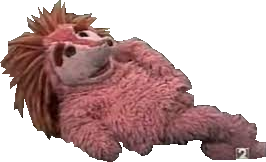
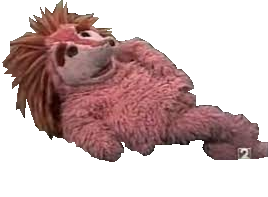
añadida barra inferior

diff --git a/tab_functions.js b/tab_functions.js
@@ -66,15 +66,61 @@ function cambiarIcono() {
 	console.log('iconillo')
 	console.log(a)
 	if (a != -1) {
-		a.href = 'https://raw.githubusercontent.com/gallegux/croack/main/espinete-icon.png'
+		a.href = 'https://raw.githubusercontent.com/gallegux/sigo/main/espinete-icon.png'
 		console.log("icono cambiado")
 	}
+}
+
+
+function crearLink(nombre, url) {
+	a = document.createElement('a')
+	a.innerHTML = nombre
+	a.href = url
+	a.target = '_blank'
+	
+	return a
+}
+
+
+function anadirCRU() {
+	opts = [ 
+		{nombre: 'Alta&nbsp;usuarios', url: 'https://cru.jccm.es/usuarios/index.php'} , 
+		{nombre: 'Buscar&nbsp;usuarios', url: 'https://cru.jccm.es/usuarios/buscar.php?estado=0'} , 
+		{nombre: 'Personal&nbsp;docente', url: 'http://educacion.jccm.es/gesid/gesid/buscarUsuario/buscarUsuario.jsf'} , 
+		{nombre: 'Registro&nbsp;de&nbsp;cambios', url: 'https://cru.jccm.es/usuarios/logs.php'} , 
+		{nombre: 'Telefonía&nbsp;IP', url: 'https://cru.jccm.es/AXL105/'} , 
+		{nombre: 'Listas&nbsp;de&nbsp;distribución', url: 'https://cru.jccm.es/usuarios/listas.php'},
+		{nombre: 'OCS', url: 'http://ocs.jclm.es/ocsreports/'}
+	]
+
+	tabla = document.createElement('table')
+	tabla.style = 'position: absolute; bottom: 0px; width: 200%; height: 35px !important; background-color: #002855;'
+	
+	fila = document.createElement('tr')
+	tabla.appendChild(fila)
+	
+	for (i = 0; i < opts.length; i++) {
+		opt = opts[i]
+		console.log(i+" "+opt.nombre)
+		celda = document.createElement('TD')
+		celda.innerHTML = '&nbsp;&nbsp;&nbsp;&nbsp;&nbsp;&nbsp;&nbsp;'
+		fila.appendChild(celda)
+		celda = document.createElement('TD')
+		enlace = crearLink(opt.nombre, opt.url)
+		celda.appendChild(enlace)
+		fila.appendChild(celda)
+	}
+	celda = document.createElement('TD')
+	celda.width = '100%'
+	fila.appendChild(celda)
+	
+	document.body.appendChild(tabla)
 }
 
 /*
 function anadirEsquina() {
 	x = document.createElement('img')
-	x.src = 'https://raw.githubusercontent.com/gallegux/croack/main/espinete_tumbado.png'
+	x.src = 'chrome-extension:///espinete_tumbado.png'
 	x.style = 'position: absolute; bottom: 0; left: 0; z-index: -10;'
 	
 	document.body.appendChild(x)
@@ -86,5 +132,9 @@ setTimeout(quitarEnlace,1000, "JavaScript")
 setInterval(refrescar, 55000, "JavaScript")
 
 cambiarIcono()
+
+anadirCRU()
+
+//anadirEsquina()
 
 //anadirEsquina()
